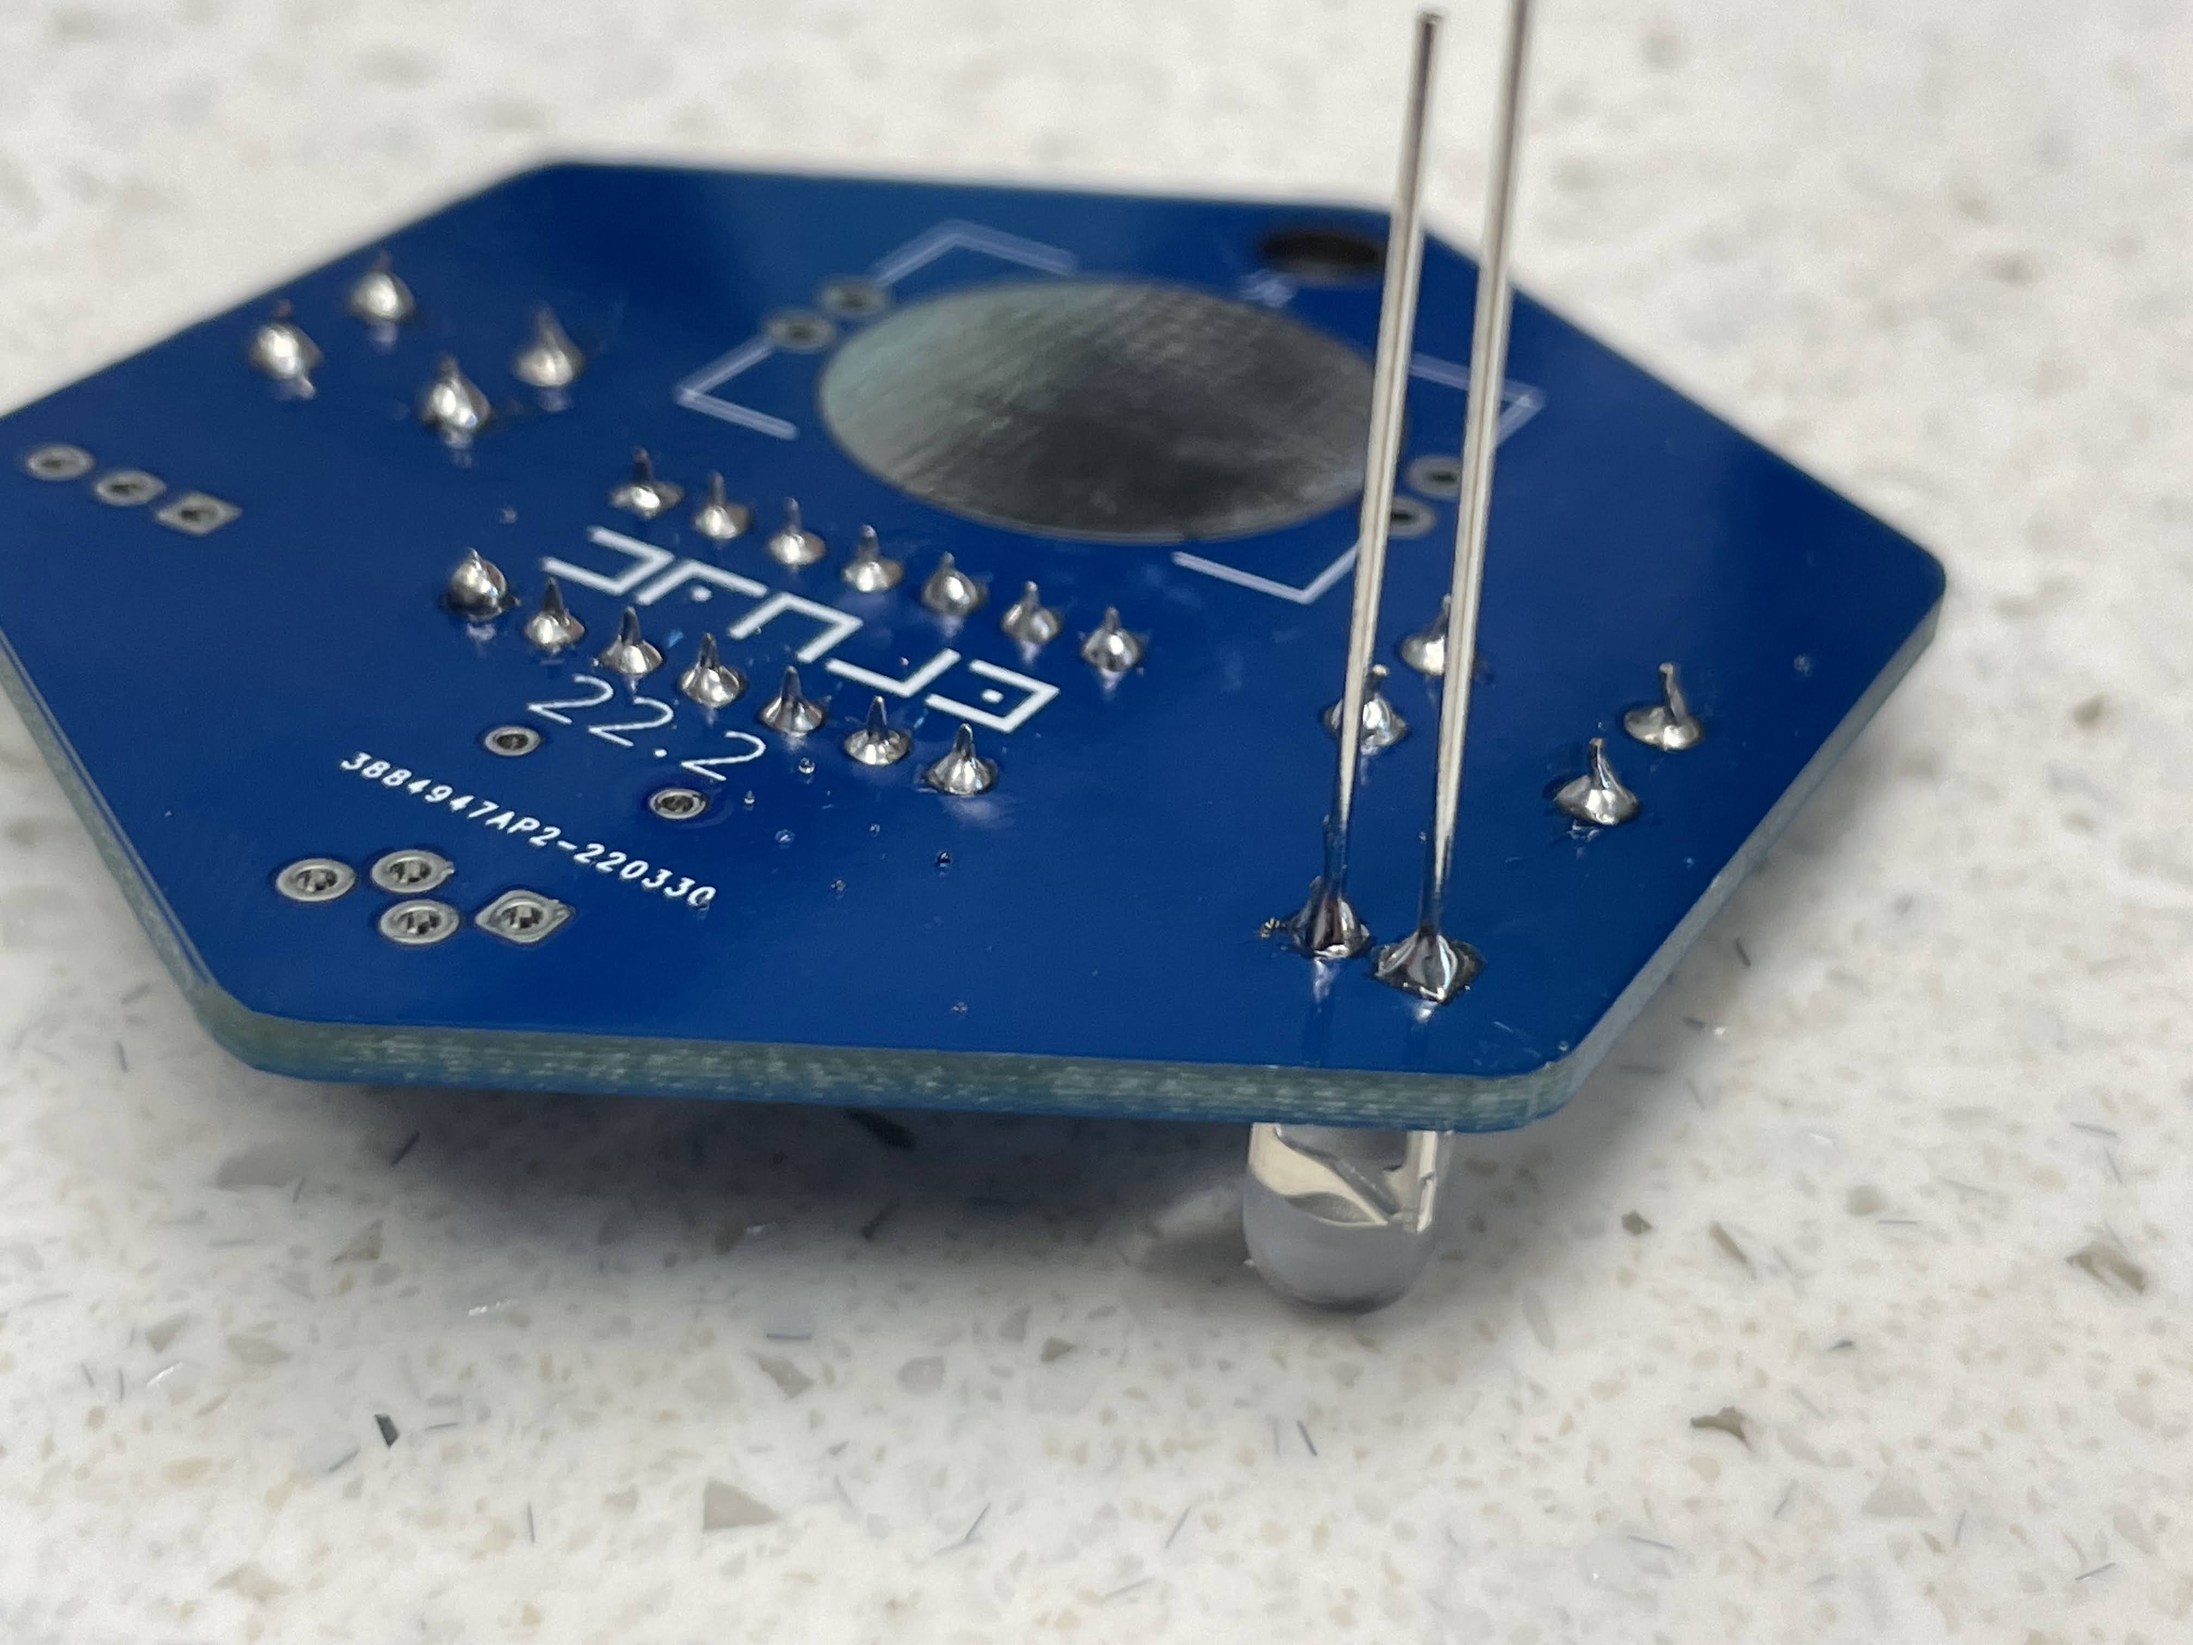
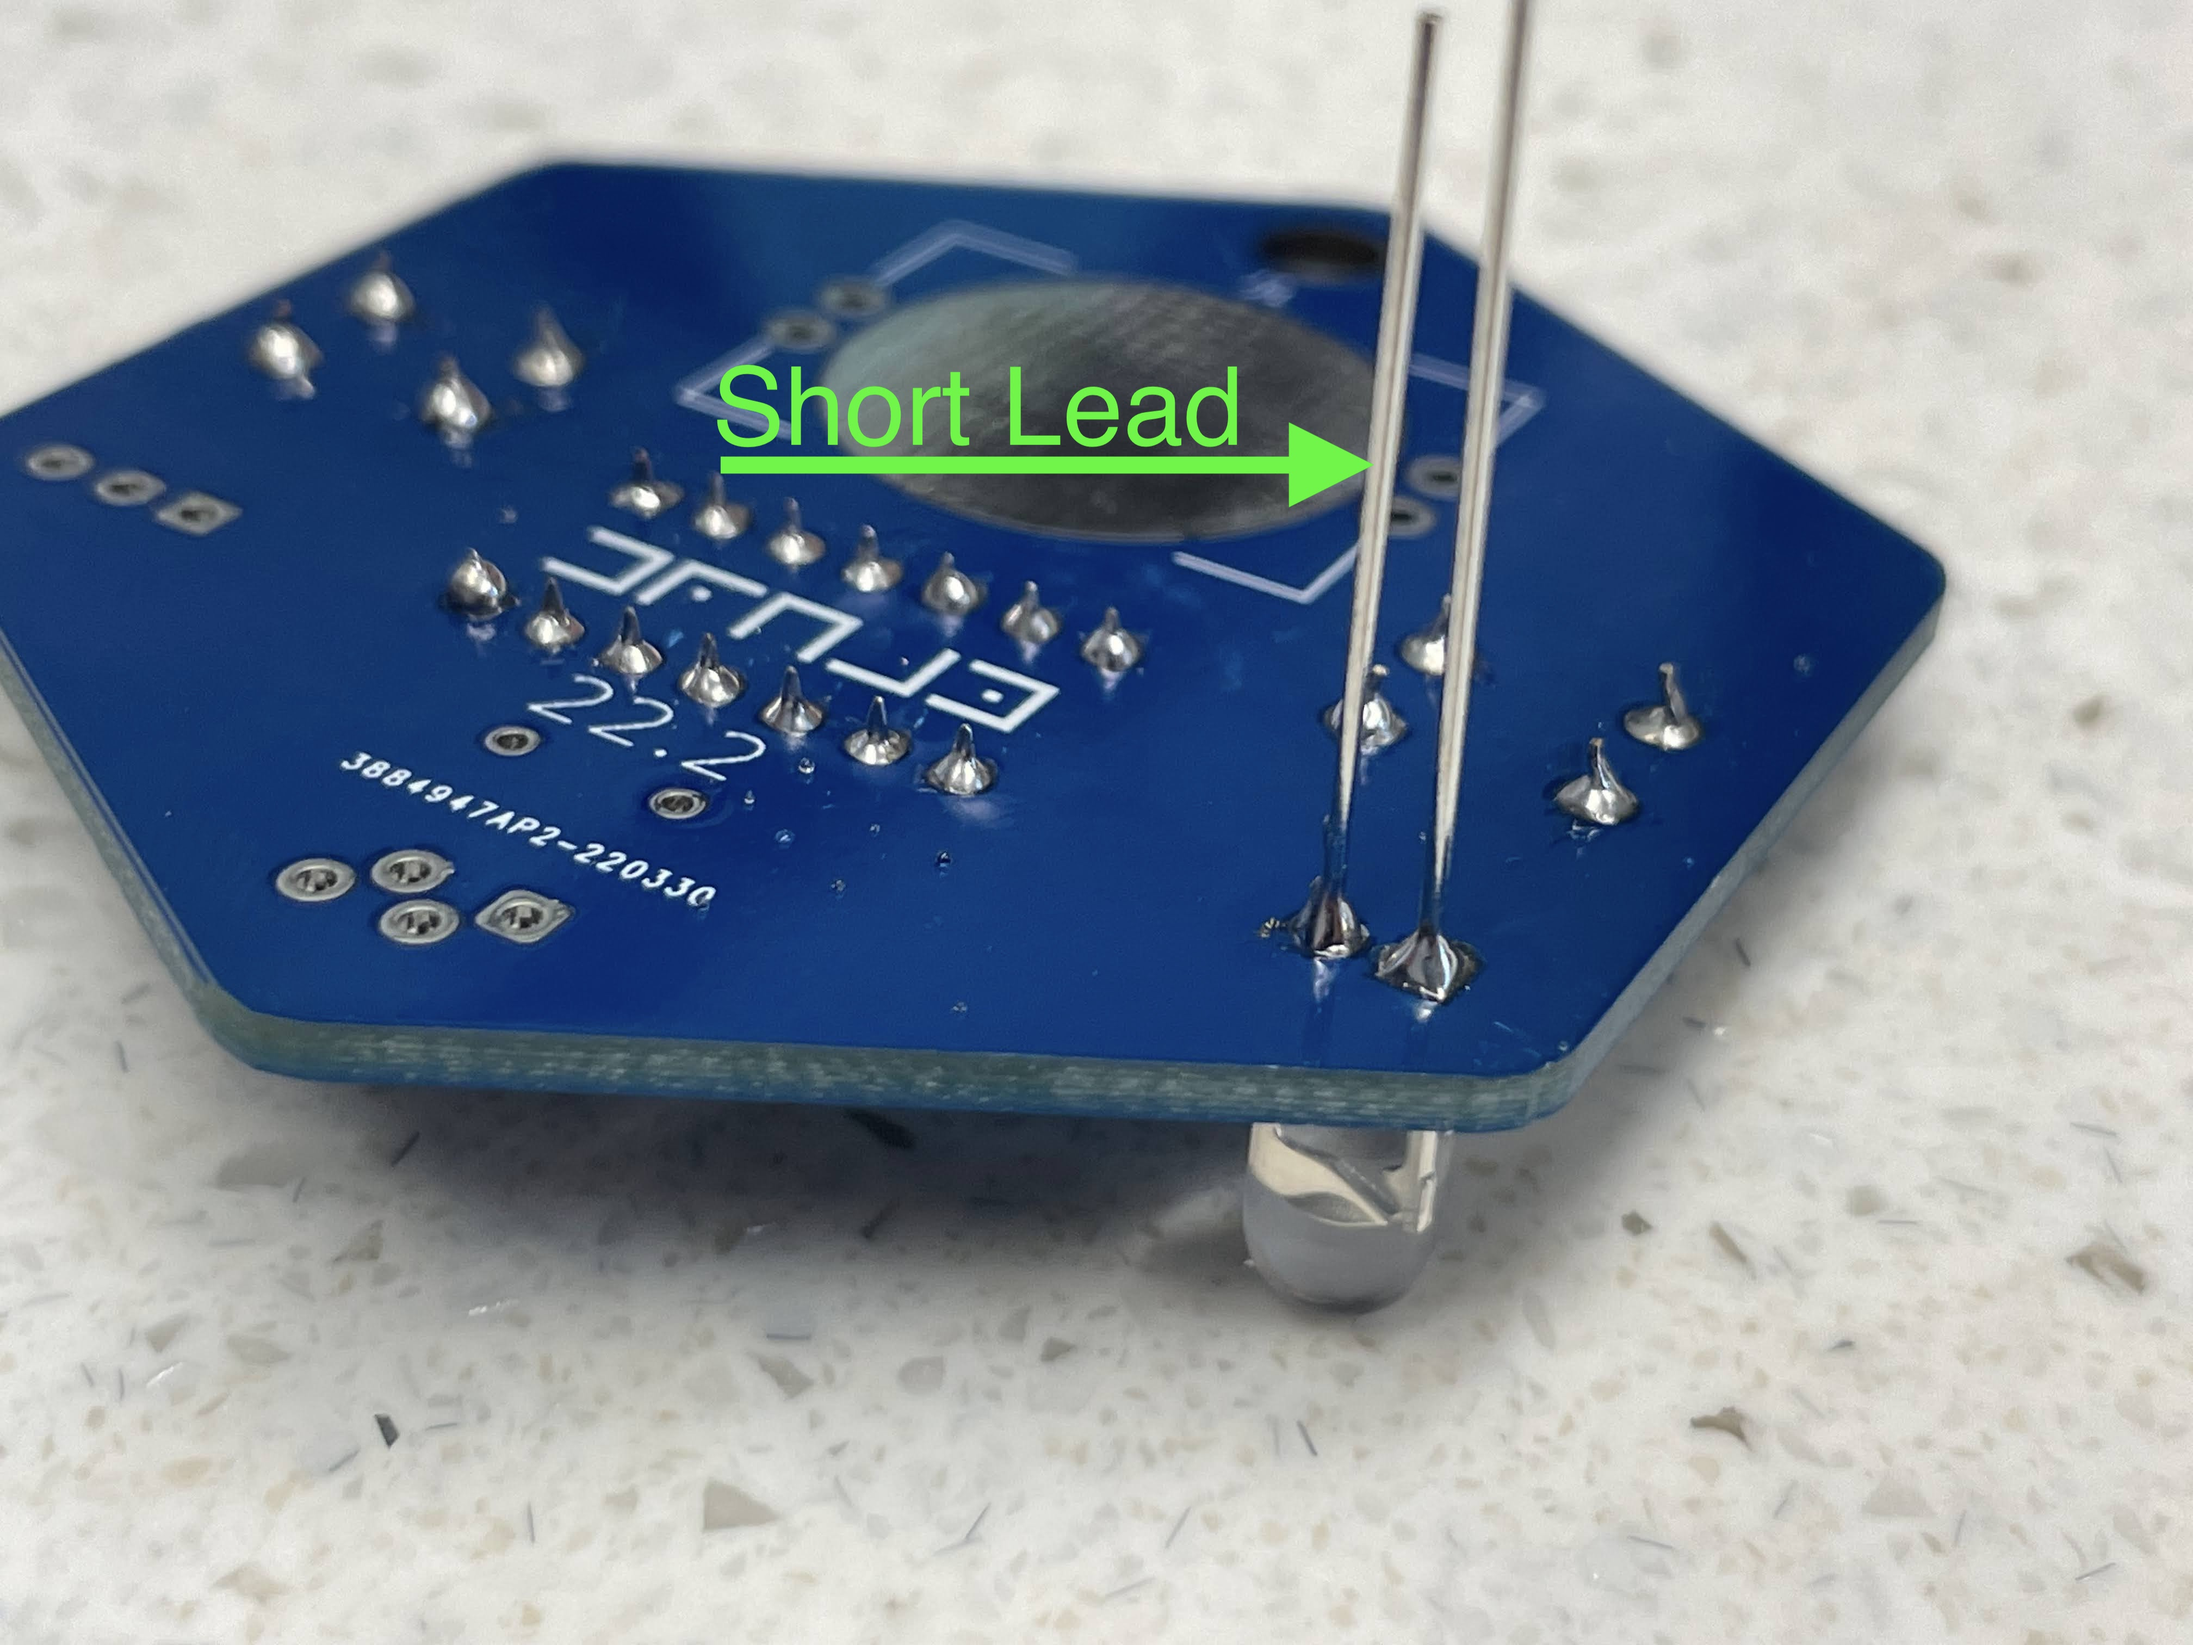
updates assembly instructions

Changed region(s): [[0.3125, 0.2176, 0.625, 0.3108]]

diff --git a/Badge/Articles/Assembly.md b/Badge/Articles/Assembly.md
@@ -6,7 +6,7 @@ The first objective you have is to assemble your badge. Make sure you've got a g
 The order of assembly is not critical, but this approach should work well:
  1. Verify you have all of the parts needed:
 	 1. Badge PCB
-	 2.  Battery Holder
+	 2. Battery Holder
 	 3. Battery
 	 4. Resistor 56 Ohm % 1/4 Watt
 	 5. IR Receiver
@@ -23,12 +23,13 @@ The order of assembly is not critical, but this approach should work well:
 3. After soldering the DIP socket, move on to the two buttons labeled **SW1** and **SW2**. The pinouts of the buttons are rectangular and will only fit onto the badge one way. You should not need to bend any pins to get the buttons to fit.
 ![Button SW1 placed onto the badge](https://github.com/DSUmjham/GenCyber/blob/master/Badge/Images/assembly04.jpg?raw=true)
 ![Soldering the button SW1](https://github.com/DSUmjham/GenCyber/blob/master/Badge/Images/assembly05.jpg?raw=true)
-4. Once both buttons are soldered on, the transmitting IR LED can be soldered on. This will go in the **D2** place on the badge. **Note:** The silkscreen on the badge shows a flat edge of the **D2** component on the right-hand side. The IR LED also has a flat edge; line this side up with the silk screen. 
+4. Once both buttons are soldered on, the transmitting IR LED can be soldered on. This will go in the **D2** place on the badge. **Note:** The silkscreen on the badge shows a flat edge of the **D2** component on the right-hand side. The IR LED also has a flat edge; line this side up with the silk screen.
 ![IR Transmitting LED placed on the badge with flat edge properly aligned](https://github.com/DSUmjham/GenCyber/blob/master/Badge/Images/assembly06.jpg?raw=true)
+Another way to verify the correct orientation is that the long lead of the LED is through the hole closest to the outside edge of the PCB and the short lead is through the hole closest to the DIP socket.
 ![Soldering the IR transmitting LED](https://github.com/DSUmjham/GenCyber/blob/master/Badge/Images/assembly07.jpg?raw=true)
 5. Next, solder the resistor onto the badge in the **R1** location. The orientation of the resistor does not matter. It may be helpful to pre-bend the leads so that the component fits nicely. Avoid bending them at a sharp angle.
 ![Bending the resistor leads](https://github.com/DSUmjham/GenCyber/blob/master/Badge/Images/assembly08.jpg?raw=true)
-6. The RGB LED can be soldered onto the badge next. This one is a little bit tricky because the solder pads are closer together than other components. It may be helpful to cut off each lead after it has been soldered to give you more room.  **Note:** Much like the IR transmitter LED, the RGB LED has a flat edge. This edge should be aligned with the flat edge on the silkscreen (right side). The image also shows the correct order of the pins; pin 1 is in the top-left corner.
+6. The RGB LED can be soldered onto the badge next. This one is a little bit tricky because the solder pads are closer together than other components. It may be helpful to cut off each lead after it has been soldered to give you more room. The LED will not sit completely flush with the PCB because of the staggered leads. **Note:** Much like the IR transmitter LED, the RGB LED has a flat edge. This edge should be aligned with the flat edge on the silkscreen (right side). The image also shows the correct order of the pins; pin 1 is in the top-left corner.
 ![RGB LED placed on the badge](https://github.com/DSUmjham/GenCyber/blob/master/Badge/Images/assembly09.jpg?raw=true)
 ![RGB LED soldered onto the badge](https://github.com/DSUmjham/GenCyber/blob/master/Badge/Images/assembly10.jpg?raw=true)
 7. Just a few components left! Solder the IR Receiver next in the **U2** spot.
